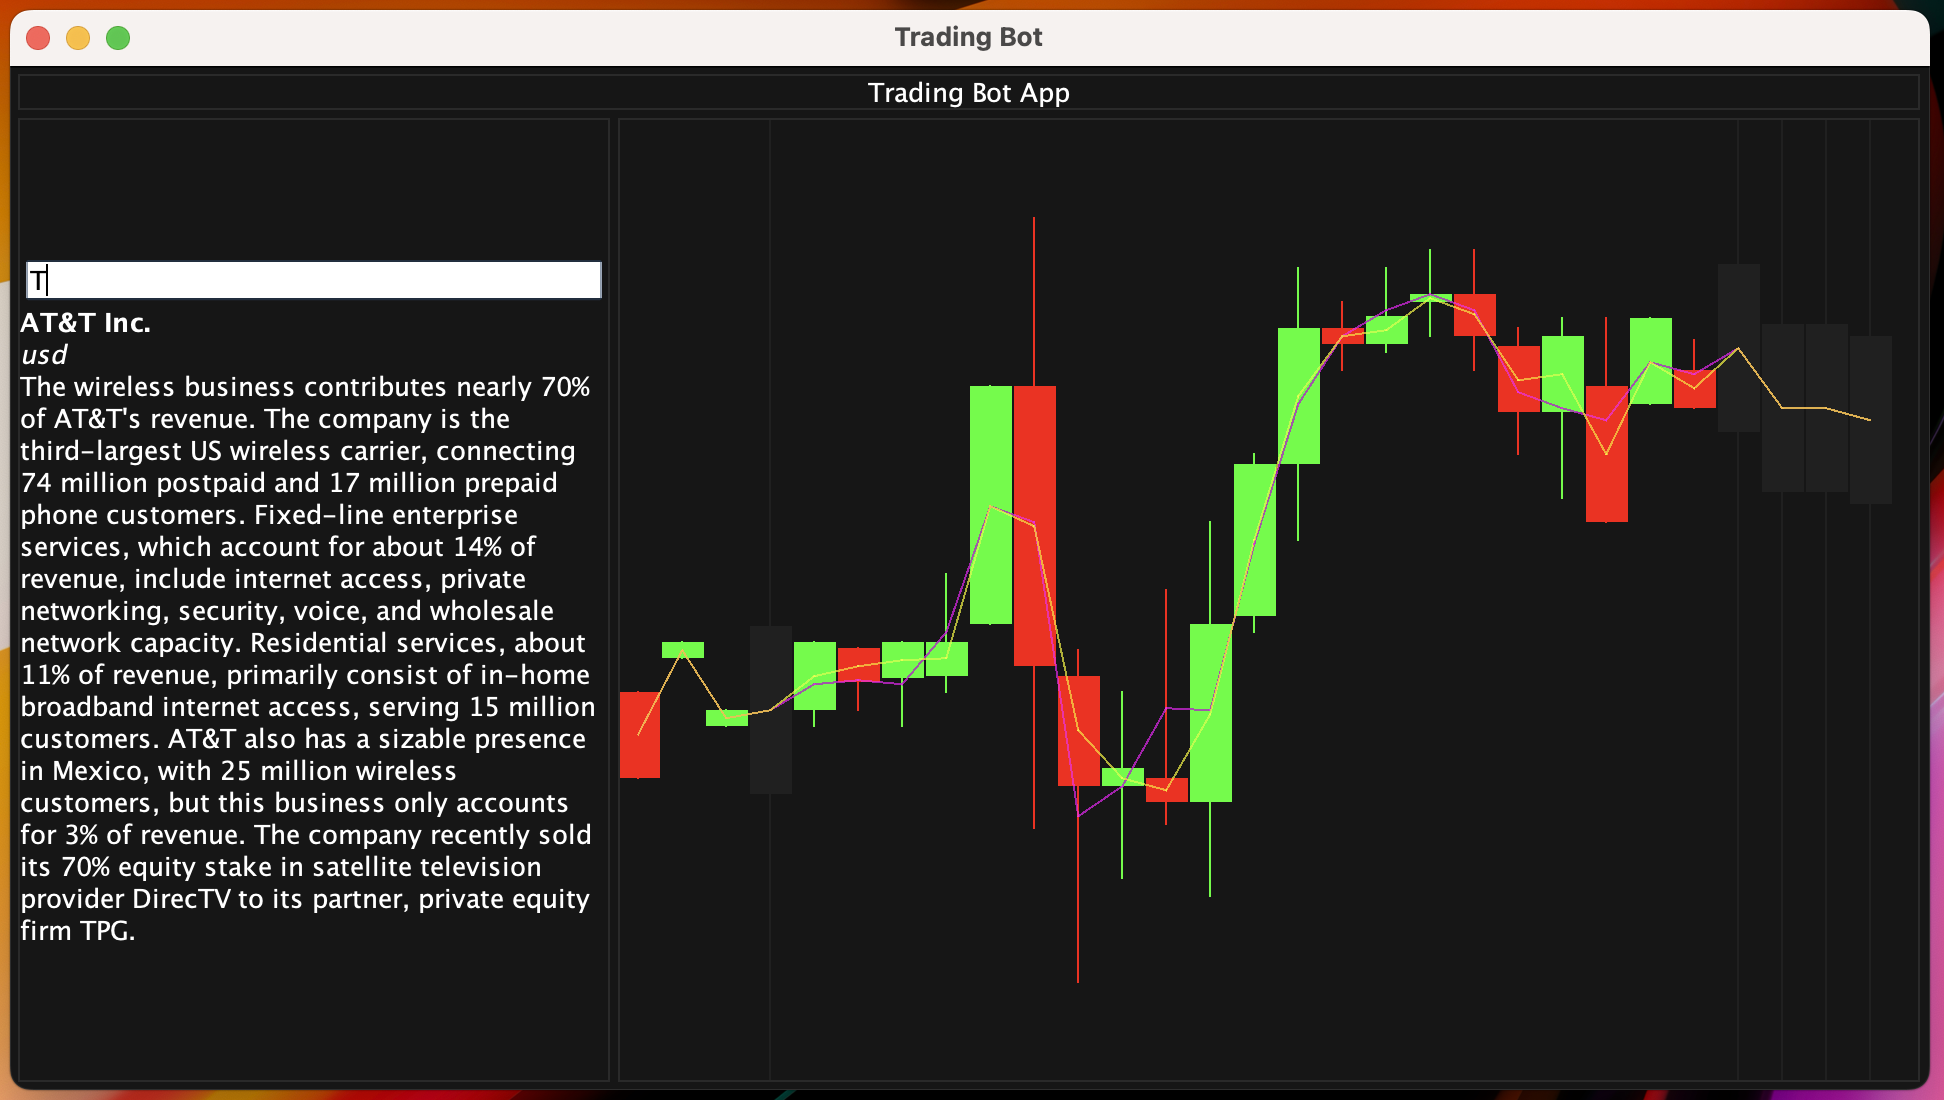
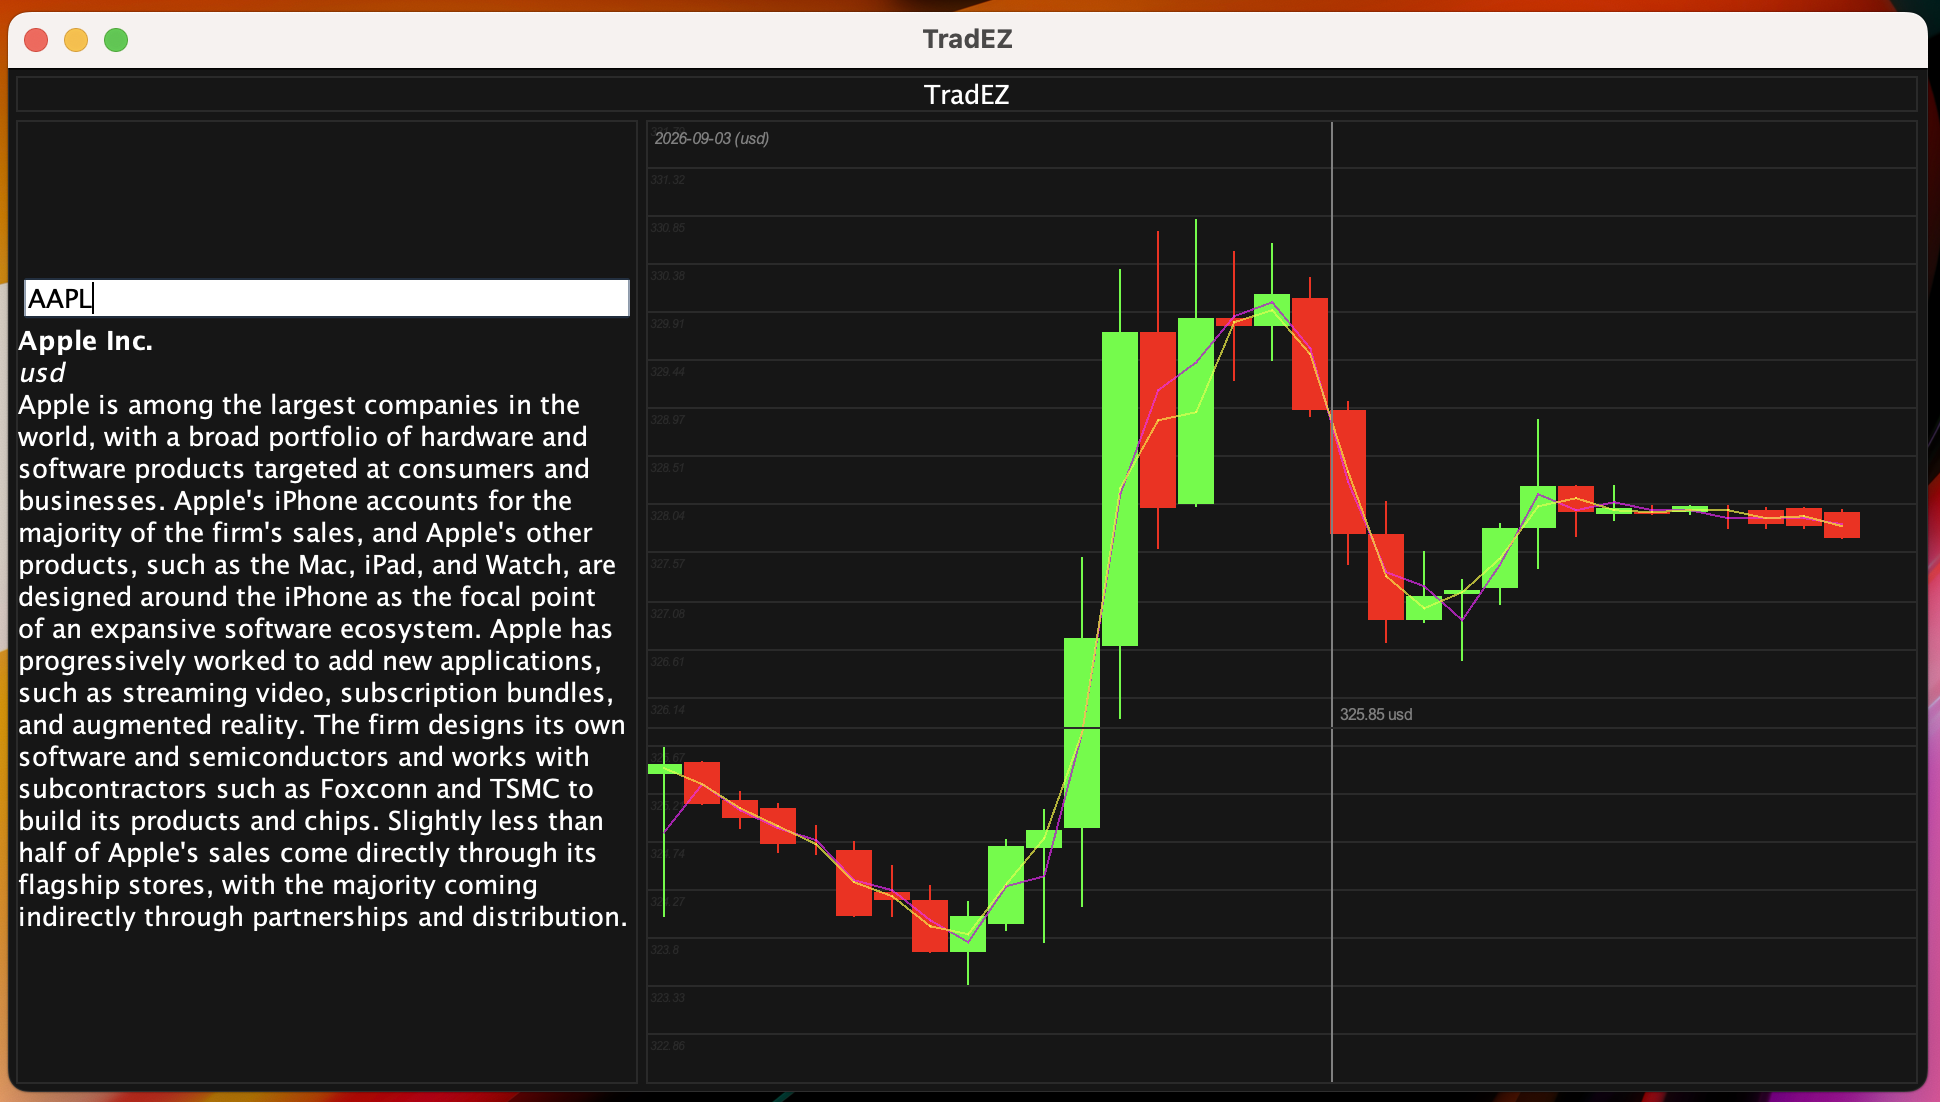
added price points and cursor

diff --git a/com/bot/dashboard/CandleDisplay.java b/com/bot/dashboard/CandleDisplay.java
@@ -6,6 +6,8 @@ import com.bot.util.JSON;
 import com.bot.util.Queryable;
 
 import java.awt.*;
+import java.awt.event.MouseAdapter;
+import java.awt.event.MouseEvent;
 import java.time.LocalDate;
 import java.util.ArrayList;
 
@@ -24,68 +26,101 @@ public class CandleDisplay extends Panel {
     }
 
     private final ArrayList<Candle> candles = new ArrayList<>();
+    private double min_price;
+    private double max_price;
+    private String currency_name;
+    private String date;
+    private int mouse_x = 0;
+    private int mouse_y = 0;
 
-    private final int DAY_DELAY = 5;
+    private static final int DAY_DELAY = 5;
 
-    public CandleDisplay(String ticker) {
+    public CandleDisplay(String ticker, String currency_name) {
+
+        this.currency_name = currency_name;
+        date = LocalDate.now().minusDays(DAY_DELAY).toString();
 
         if(ticker == null) {
             return;
         }
 
-        final String query_date = LocalDate.now().minusDays(DAY_DELAY).toString();
-
         ErrorDispatch.wrap_operation(() -> Main.massive.get_custom_bars(
-                ticker, 30, MassiveClient.TimeSpan.Minute, query_date, query_date, new Queryable() {}), bars -> {
+                ticker, 30, MassiveClient.TimeSpan.Minute, date, date, new Queryable() {}), bars -> {
             final long bar_count = bars.get("resultsCount").get(Long.class);
             candles.ensureCapacity((int) bar_count);
             final JSON<?> results = bars.get("results");
 
+            min_price = Double.MAX_VALUE;
+            max_price = Double.MIN_VALUE;
+
             for(int i = 0; i < bar_count; i++) {
-                candles.add(new Candle(results.get(i)));
+                final Candle candle = new Candle(results.get(i));
+                candles.add(candle);
+
+                min_price = Math.min(candle.low(), min_price);
+                max_price = Math.max(candle.high(), max_price);
+            }
+        });
+
+        addMouseMotionListener(new MouseAdapter() {
+            @Override
+            public void mouseMoved(MouseEvent event) {
+                mouse_x = event.getX();
+                mouse_y = event.getY();
+                repaint();
             }
         });
 
     }
 
-    private int price_to_pixel(double price, double min, double max) {
+    private int price_to_pixel(double price) {
         final int PADDING = 50;
-        return (int) ((1 - (price - min) / (max - min)) * (getHeight() - PADDING * 2)) + PADDING;
+        return (int) ((1 - (price - min_price) / (max_price - min_price)) * (getHeight() - PADDING * 2)) + PADDING;
     }
 
-    private void draw_average_lines(Graphics2D g2, int i, Candle candle, int WIDTH, int SPACING, int CANDLE_X,
-                                   double min, double max) {
+    private double pixel_to_price(int pixel) {
+        final int PADDING = 50;
+        double full_price = (1 - (double) (pixel - PADDING) / (getHeight() - PADDING * 2)) * (max_price - min_price) + min_price;
+        return (double) Math.round(full_price * 100) / 100;
+    }
+
+    private void draw_average_lines(Graphics2D g2, int i, Candle candle, int WIDTH, int SPACING, int CANDLE_X) {
         if(i == 0) return;
 
         final int PREV_X = (i - 1) * (WIDTH + SPACING) + WIDTH / 2;
         final Candle prev_candle = candles.get(i - 1);
 
         g2.setColor(Colors.HL_AVERAGE_LINE);
-        g2.drawLine(PREV_X, price_to_pixel((prev_candle.high() + prev_candle.low()) / 2, min, max),
-                CANDLE_X, price_to_pixel((candle.high() + candle.low()) / 2, min, max));
+        g2.drawLine(PREV_X, price_to_pixel((prev_candle.high() + prev_candle.low()) / 2),
+                CANDLE_X, price_to_pixel((candle.high() + candle.low()) / 2));
 
         g2.setColor(Colors.OC_AVERAGE_LINE);
-        g2.drawLine(PREV_X, price_to_pixel((prev_candle.open() + prev_candle.close()) / 2, min, max),
-                CANDLE_X, price_to_pixel((candle.open() + candle.close()) / 2, min, max));
+        g2.drawLine(PREV_X, price_to_pixel((prev_candle.open() + prev_candle.close()) / 2),
+                CANDLE_X, price_to_pixel((candle.open() + candle.close()) / 2));
     }
 
     @Override
     protected void paintComponent(Graphics g) {
         super.paintComponent(g);
+        final Graphics2D g2 = (Graphics2D) g;
+
+        g2.setColor(Colors.BORDER);
+        g2.setFont(new Font("Arial", Font.ITALIC, 6));
+        for(int i = 0; i < 20; i++) {
+            int y = i * getHeight() / 20;
+            g2.drawLine(0, y, getWidth(), y);
+            g2.drawString(Double.toString(pixel_to_price(y)), 2, y + 8);
+        }
+
+        g2.setColor(Color.gray);
+        g2.setFont(new Font("Arial", Font.ITALIC, 8));
+        g2.drawString(date + " (" + currency_name + ")", 4, 12);
+
         if(candles.isEmpty()) {
             return;
         }
 
-        final Graphics2D g2 = (Graphics2D) g;
         final int max_candles = Math.min(getWidth() / 4, candles.size());
-
-        double min = Double.MAX_VALUE;
-        double max = Double.MIN_VALUE;
-
-        for(int i = 0; i < max_candles; i++) {
-            min = Math.min(min, candles.get(i).low());
-            max = Math.max(max, candles.get(i).high());
-        }
 
         final int SPACING = 1;
         final int WIDTH = getWidth() / max_candles - SPACING;
@@ -95,29 +130,35 @@ public class CandleDisplay extends Panel {
             final int CANDLE_X = i * (WIDTH + SPACING) + WIDTH / 2;
 
             if(candle.low() == candle.high()) {
-                g2.setColor(Colors.SUBTLE);
+                g2.setColor(Colors.NO_TRADE);
                 g2.drawLine(CANDLE_X, 0, CANDLE_X, getHeight());
-                g2.fillRect(i * (WIDTH + SPACING), price_to_pixel(candle.low(), min, max) - WIDTH * 2,
-                        WIDTH, WIDTH * 4);
 
-                draw_average_lines(g2, i, candle, WIDTH, SPACING, CANDLE_X, min, max);
+                draw_average_lines(g2, i, candle, WIDTH, SPACING, CANDLE_X);
                 continue;
             }
 
             g2.setColor(candle.close() > candle.open() ? Color.green : Color.red);
 
             g2.drawLine(
-                    CANDLE_X, price_to_pixel(candle.high(), min, max),
-                    CANDLE_X, price_to_pixel(candle.low(), min, max));
+                    CANDLE_X, price_to_pixel(candle.high()),
+                    CANDLE_X, price_to_pixel(candle.low()));
 
-            final int bouse = price_to_pixel(candle.close(), min, max);
-            final int touse = price_to_pixel(candle.open(), min, max);
+            final int bouse = price_to_pixel(candle.close());
+            final int touse = price_to_pixel(candle.open());
             g2.fillRect(
                     i * (WIDTH + SPACING), Math.min(bouse, touse),
                     WIDTH, Math.abs(bouse - touse));
 
-            draw_average_lines(g2, i, candle, WIDTH, SPACING, CANDLE_X, min, max);
+            draw_average_lines(g2, i, candle, WIDTH, SPACING, CANDLE_X);
         }
+
+        g.setColor(Color.gray);
+        g2.setFont(new Font("Arial", Font.PLAIN, 8));
+        g.drawString(pixel_to_price(mouse_y) + " " + currency_name, mouse_x + 4, mouse_y - 4);
+        g.drawLine(mouse_x, 0, mouse_x, getHeight());
+
+        g.setColor(Colors.BORDER);
+        g.drawLine(0, mouse_y, getWidth(), mouse_y);
     }
 
 }

diff --git a/com/bot/dashboard/Info.java b/com/bot/dashboard/Info.java
@@ -38,7 +38,8 @@ public class Info extends Panel {
                 final WhiteText title = new WhiteText(ticker.get("results").get("name").get(String.class));
                 title.setFont(title.getFont().deriveFont(Font.BOLD));
 
-                final WhiteText currency = new WhiteText(ticker.get("results").get("currency_name").get(String.class));
+                final String currency_name = ticker.get("results").get("currency_name").get(String.class);
+                final WhiteText currency = new WhiteText(currency_name);
                 currency.setFont(currency.getFont().deriveFont(Font.ITALIC));
 
                 final WhiteText description = new WhiteText(ticker.get("results").get("description").get(String.class));
@@ -48,7 +49,7 @@ public class Info extends Panel {
                 info_panel.add(description, c);
                 add(info_panel, c);
 
-                Dashboard.replace_candles(new CandleDisplay(ticker_name));
+                Dashboard.replace_candles(new CandleDisplay(ticker_name, currency_name));
                 Dashboard.update();
             });
         });

diff --git a/com/bot/dashboard/Colors.java b/com/bot/dashboard/Colors.java
@@ -6,8 +6,9 @@ public interface Colors {
 
     Color BACKGROUND = new Color(22, 22, 22);
     Color BORDER = new Color(42, 42, 42);
+    Color SUBTLE = new Color(28, 28, 28);
 
-    Color SUBTLE = new Color(32, 32, 32);
+    Color NO_TRADE = new Color(32, 32, 32);
     Color OC_AVERAGE_LINE = new Color(255, 255, 0, 170);
     Color HL_AVERAGE_LINE = new Color(255, 0, 255, 170);
 

diff --git a/com/bot/dashboard/Dashboard.java b/com/bot/dashboard/Dashboard.java
@@ -36,7 +36,7 @@ public class Dashboard extends JPanel {
         c.insets = new Insets(2, 2, 4, 4);
         c.gridx = 1;
         c.weightx = 0.75;
-        candle_display = new CandleDisplay(null);
+        candle_display = new CandleDisplay(null, "?");
         add(candle_display, c);
         candle_constraints = c;
     }

diff --git a/com/bot/dashboard/Frame.java b/com/bot/dashboard/Frame.java
@@ -8,7 +8,7 @@ import java.awt.event.ComponentEvent;
 public class Frame extends JFrame {
 
     public Frame() {
-        super("Trading Bot");
+        super("TradEZ");
 
         setDefaultCloseOperation(EXIT_ON_CLOSE);
         setPreferredSize(new Dimension(960, 540));

diff --git a/com/bot/dashboard/Nav.java b/com/bot/dashboard/Nav.java
@@ -9,7 +9,7 @@ public class Nav extends Panel {
         setLayout(new GridBagLayout());
         setPreferredSize(new Dimension(0, 24));
 
-        add(new WhiteText("Trading Bot App"));
+        add(new WhiteText("TradEZ"));
     }
 
 }
